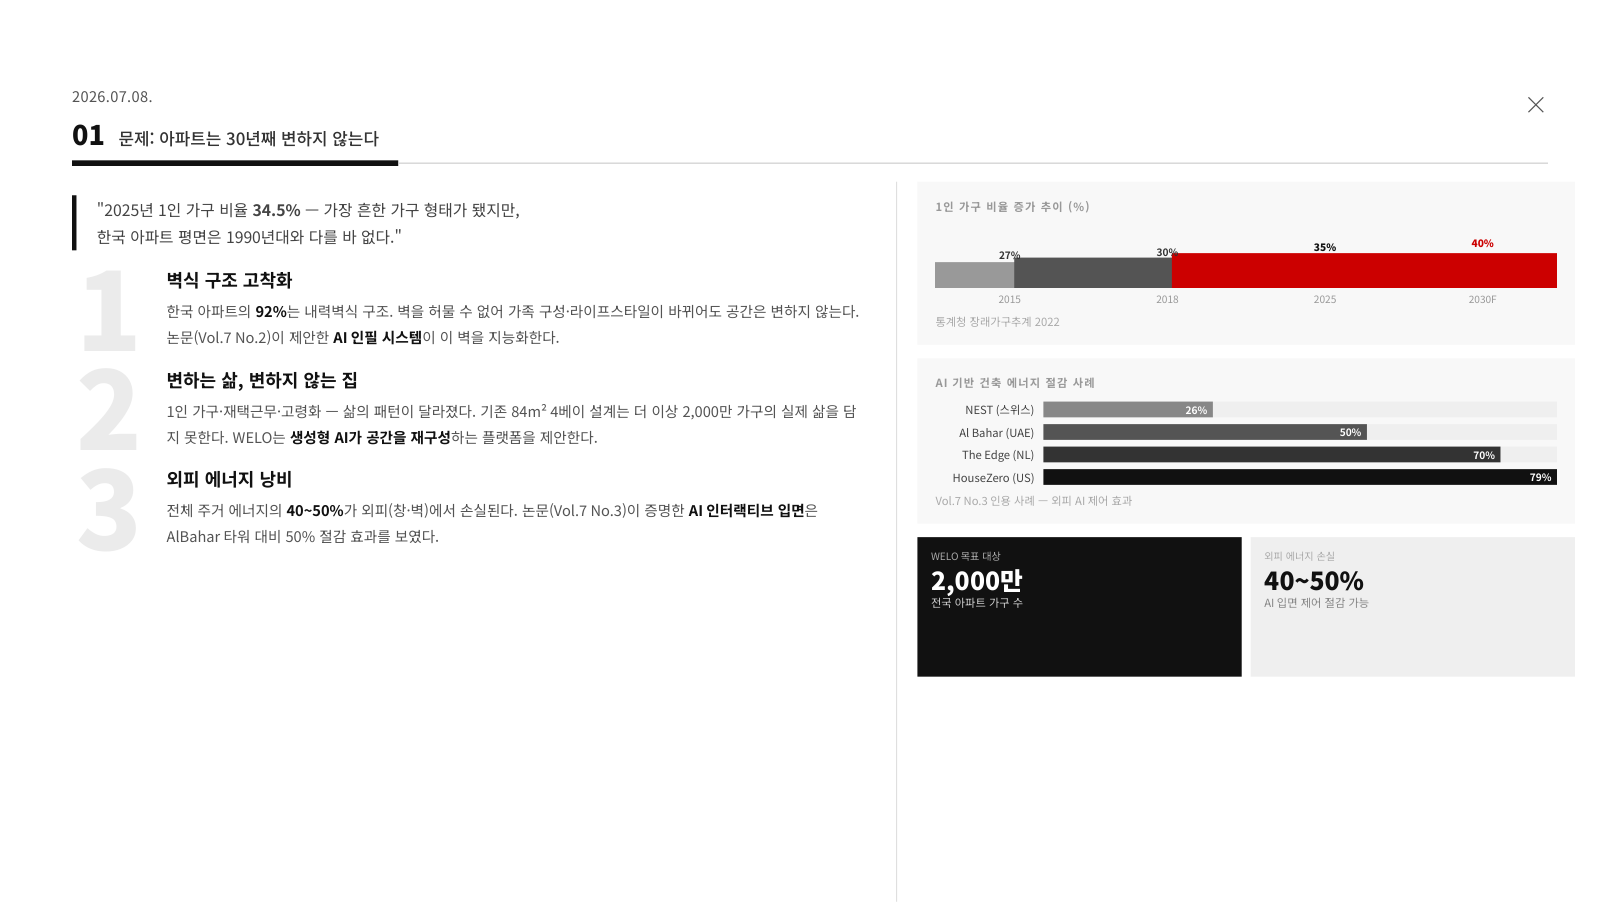
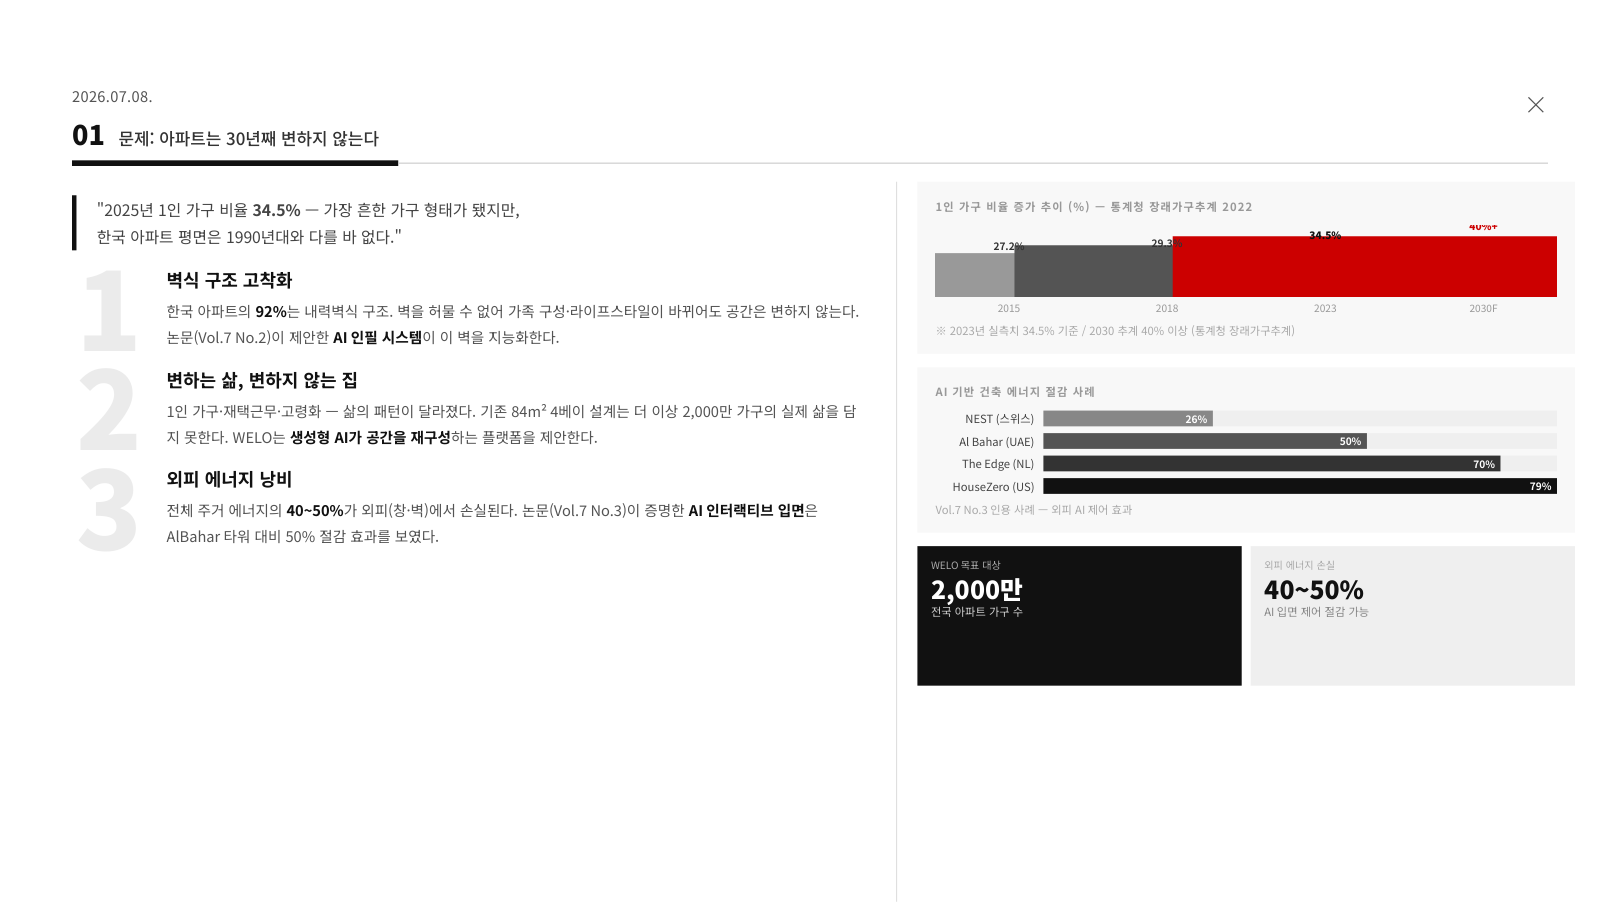
Update WELO slides: B2G 3-Track renovation + bar chart fix
- welo_05: Expand B2G into 3 sub-tracks (ESCo 외피 교체 / 수직증축
  리모델링 / 공공임대 스마트화) with group header row
- welo_02: Fix 1인가구 bar chart — use 4 data points with accurate
  stats (27.2%→29.3%→34.5%→40%+), proportional bar heights,
  add source annotation (통계청 장래가구추계 2022)

Claude-Session: https://claude.ai/code/session_011RFWRhZqC6rvPGc1VFGJwq

diff --git a/welo_05.html b/welo_05.html
@@ -27,20 +27,27 @@ body {
 .h-thin  { flex: 1; height: 1px; background: #ccc; }
 .body { padding: 0 64px; }
 
-.rev { width: 100%; border-collapse: collapse; margin-top: 16px; margin-bottom: 16px; font-size: 13px; }
+.rev { width: 100%; border-collapse: collapse; margin-top: 14px; margin-bottom: 12px; font-size: 12.5px; }
 .rev thead th {
-  background: #111; color: #fff; padding: 11px 16px;
+  background: #111; color: #fff; padding: 10px 14px;
   font-weight: 700; text-align: center;
 }
 .rev thead th:first-child { text-align: left; width: 30%; }
 .rev tbody td {
-  padding: 10px 16px; border: 1px solid #e8e8e8;
+  padding: 8px 14px; border: 1px solid #e8e8e8;
   text-align: center; color: #444;
 }
 .rev tbody td:first-child { text-align: left; font-weight: 600; background: #f8f8f8; }
-.rev tbody tr:nth-child(even) td { background: #f4f4f4; }
-.rev tbody tr:nth-child(even) td:first-child { background: #ebebeb; }
+.rev tbody tr.alt td { background: #f4f4f4; }
+.rev tbody tr.alt td:first-child { background: #ebebeb; }
 .rev .hl { font-weight: 700; color: #111; }
+.rev .b2g-head td {
+  background: #333; color: #fff; font-weight: 700;
+  font-size: 11.5px; padding: 7px 14px; letter-spacing: 0.3px;
+}
+.rev .b2g-sub td:first-child { padding-left: 24px; font-weight: 500; color: #333; background: #fafafa; }
+.rev .b2g-sub.alt td { background: #f4f4f4; }
+.rev .b2g-sub.alt td:first-child { background: #f0f0f0; }
 
 .vision-block { background: #111; color: #fff; padding: 18px 28px; margin-bottom: 14px; }
 .vision-txt { font-size: 14px; font-weight: 400; line-height: 1.85; }
@@ -88,24 +95,43 @@ body {
       </thead>
       <tbody>
         <tr>
-          <td><strong>B2D</strong> — 건설사 공급형</td>
+          <td><strong>B2D</strong> — 건설사 공급형 (신규)</td>
           <td>세대당 30만원 (설계 라이선스)</td>
           <td>연 40만 세대</td>
           <td class="hl">1,200억</td>
         </tr>
-        <tr>
+        <tr class="alt">
           <td><strong>B2C</strong> — 거주자 구독형</td>
           <td>월 3~5만원 (AI 공간·에너지 서비스)</td>
           <td>구독 100만 가구</td>
           <td class="hl">360~600억</td>
         </tr>
-        <tr>
-          <td><strong>B2G</strong> — 노후아파트 ESCo</td>
-          <td>에너지 절감분 수익 배분 (20~30%)</td>
-          <td>그린리모델링 정책 연계</td>
-          <td class="hl">수천억 (정부 예산 레버리지)</td>
+        <!-- B2G Group Header -->
+        <tr class="b2g-head">
+          <td colspan="4">B2G — 레노베이션 3-Track &nbsp;·&nbsp; 기존 아파트 대상 / 공공 발주</td>
         </tr>
-        <tr>
+        <!-- B2G-1 -->
+        <tr class="b2g-sub">
+          <td>└ <strong>ESCo 외피 교체</strong> — AI 입면·단열 설치</td>
+          <td>에너지 절감분 20~30% 수익 배분 + 그린리모델링 보조 30%</td>
+          <td>준공 15년+ 약 600만 호</td>
+          <td class="hl">수천억</td>
+        </tr>
+        <!-- B2G-2 -->
+        <tr class="b2g-sub alt">
+          <td>└ <strong>수직증축 리모델링</strong> — 기둥·보 전환 시 인필 도입</td>
+          <td>설계 라이선스 + 인필 컨설팅 번들</td>
+          <td>15년+ 증축 허가 단지</td>
+          <td class="hl">수백억</td>
+        </tr>
+        <!-- B2G-3 -->
+        <tr class="b2g-sub">
+          <td>└ <strong>공공임대 스마트화</strong> — LH·SH 일괄 위탁</td>
+          <td>구축비 + 연간 운영 라이선스</td>
+          <td>LH·SH 공공임대 단지</td>
+          <td class="hl">정부 위탁</td>
+        </tr>
+        <tr class="alt">
           <td><strong>데이터 IP</strong> — 라이선싱</td>
           <td>주거 행동 데이터 · AI 모델 API</td>
           <td>금융·의료·가전 파트너</td>

diff --git a/welo_02.html b/welo_02.html
@@ -131,30 +131,30 @@ body {
       <div class="prob-right">
         <!-- Chart 1: 1인가구 증가 -->
         <div class="data-card">
-          <div class="data-card-title">1인 가구 비율 증가 추이 (%)</div>
-          <div class="vbar-wrap">
+          <div class="data-card-title">1인 가구 비율 증가 추이 (%) — 통계청 장래가구추계 2022</div>
+          <div class="vbar-wrap" style="height:80px;align-items:flex-end;gap:10px;">
             <div class="vbar-col">
-              <div class="vbar-val">27%</div>
-              <div class="vbar" style="background:#bbb;height:20px;"></div>
+              <div class="vbar-val">27.2%</div>
+              <div class="vbar" style="background:#ccc;height:36px;"></div>
               <div class="vbar-lbl">2015</div>
             </div>
             <div class="vbar-col">
-              <div class="vbar-val">30%</div>
-              <div class="vbar" style="background:#999;height:23px;"></div>
+              <div class="vbar-val">29.3%</div>
+              <div class="vbar" style="background:#999;height:39px;"></div>
               <div class="vbar-lbl">2018</div>
             </div>
             <div class="vbar-col">
-              <div class="vbar-val" style="color:#111;font-weight:900;">35%</div>
-              <div class="vbar" style="background:#555;height:27px;"></div>
-              <div class="vbar-lbl">2025</div>
+              <div class="vbar-val" style="color:#111;font-weight:900;">34.5%</div>
+              <div class="vbar" style="background:#555;height:46px;"></div>
+              <div class="vbar-lbl">2023</div>
             </div>
             <div class="vbar-col">
-              <div class="vbar-val" style="color:#c00;font-weight:900;">40%</div>
-              <div class="vbar" style="background:#c00;height:31px;"></div>
+              <div class="vbar-val" style="color:#c00;font-weight:900;">40%+</div>
+              <div class="vbar" style="background:#c00;height:54px;"></div>
               <div class="vbar-lbl">2030F</div>
             </div>
           </div>
-          <div class="data-card-note">통계청 장래가구추계 2022</div>
+          <div class="data-card-note">※ 2023년 실측치 34.5% 기준 / 2030 추계 40% 이상 (통계청 장래가구추계)</div>
         </div>
         <!-- Chart 2: AI 에너지 절감 사례 -->
         <div class="data-card">
